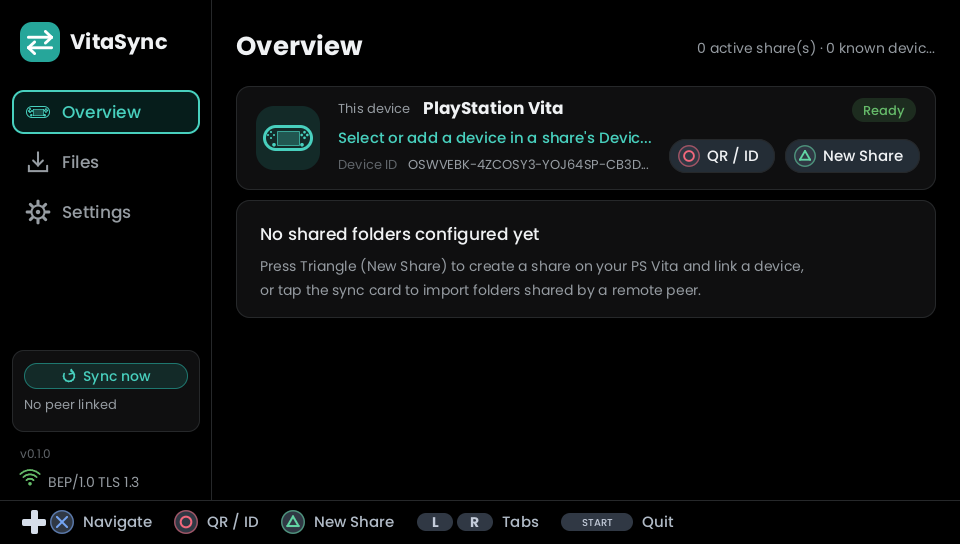
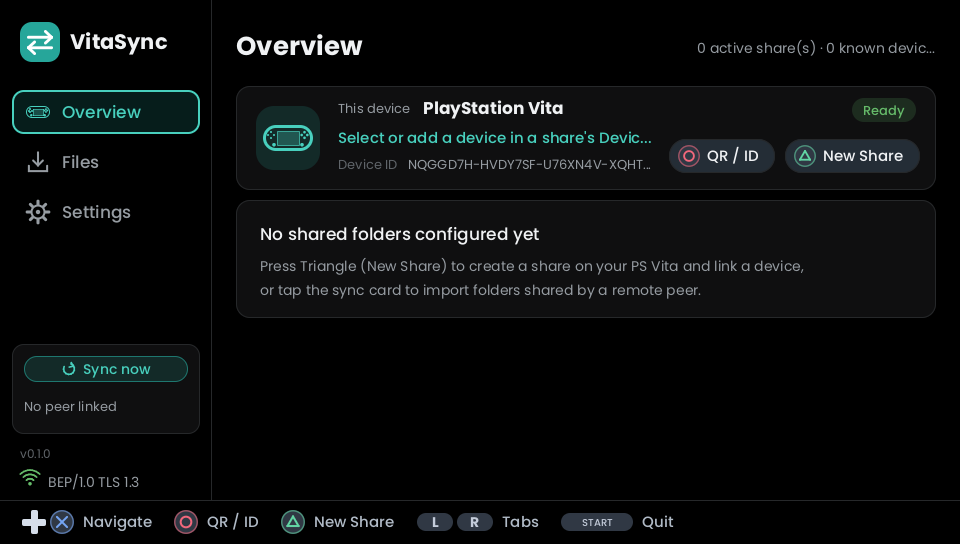
Keep Sync now button visible in Ready state and greyed out during sync

Changed region(s): [[0.0, 0.625, 0.2188, 0.8125], [0.4062, 0.2812, 0.6875, 0.3125]]

diff --git a/crates/vita-syncthing-app/src/ui/transfer_card.rs b/crates/vita-syncthing-app/src/ui/transfer_card.rs
@@ -1,6 +1,6 @@
-//! Sidebar transfer card: the sync state (`AppState::sync_activity`) and the touch target that
-//! starts a sync. While idle it shows a `Sync now` button, so that touching the card is visibly
-//! the way to connect to every paired device.
+//! Sidebar transfer card: the sync state (`AppState::sync_activity`) and the `Sync now` button.
+//! The button stays visible in every state: active and clickable when `Idle` or `Ready`, greyed
+//! out and non-clickable while `Downloading` or `Uploading`.
 
 use crate::domain::{AppState, HitMap, Hotspot, Rect, SyncActivity, UiAction};
 use crate::ui::gfx::{with_alpha, Align, FontWeight, Gfx, Icon};
@@ -11,15 +11,16 @@ use crate::ui::widgets::{draw_indeterminate_progress, draw_progress};
 /// Left edge, width and height of the card.
 const CARD_X: i32 = 12;
 const CARD_W: i32 = SIDEBAR_W - 2 * CARD_X;
-const CARD_H: i32 = 82;
+const CARD_H: i32 = 90;
 /// Left edge and width of the card's content.
 const INNER_X: i32 = 24;
 const INNER_W: i32 = SIDEBAR_W - 2 * INNER_X;
-/// Height of the idle `Sync now` button.
+/// Height of the `Sync now` button.
 const CTA_H: i32 = 26;
 
 /// Draws the transfer card above the sidebar's network status and declares it as a touch target
-/// (`UiAction::StartSync`) when `Idle` or `Ready` (non-clickable while `Downloading` or `Uploading`).
+/// (`UiAction::StartSync`) when `Idle` or `Ready` (greyed out and non-clickable while
+/// `Downloading` or `Uploading`).
 pub fn draw_transfer_card(
     gfx: &mut Gfx,
     th: &UiTheme,
@@ -27,10 +28,15 @@ pub fn draw_transfer_card(
     state: &AppState,
     hits: &mut HitMap,
 ) {
-    let card_y = HINT_Y - 150;
+    let card_y = HINT_Y - 156;
     let activity = state.sync_activity();
+    let syncing = matches!(
+        activity,
+        SyncActivity::Downloading | SyncActivity::Uploading
+    );
+
     gfx.rrect(CARD_X, card_y, CARD_W, CARD_H, 12, th.card);
-    if matches!(activity, SyncActivity::Idle | SyncActivity::Ready) {
+    if !syncing {
         hits.add(Hotspot {
             rect: Rect::new(CARD_X, card_y, CARD_W, CARD_H),
             action: UiAction::StartSync,
@@ -39,49 +45,41 @@ pub fn draw_transfer_card(
         });
     }
     gfx.rrect_outline(CARD_X, card_y, CARD_W, CARD_H, 12, 1, th.border);
+
+    draw_sync_button(gfx, th, s, card_y, !syncing);
+
     match activity {
         SyncActivity::Ready => draw_ready(gfx, s, card_y),
         SyncActivity::Idle => draw_idle(gfx, th, s, state, card_y),
         SyncActivity::Downloading => {
-            draw_transfer(gfx, th, s.sidebar_syncing, s, state, card_y);
-            draw_bar(gfx, th, state, card_y, state.progress_pct);
+            draw_transfer(
+                gfx,
+                th,
+                s.sidebar_syncing,
+                state,
+                card_y,
+                state.progress_pct,
+            );
         }
         SyncActivity::Uploading => {
-            draw_transfer(gfx, th, s.sidebar_uploading, s, state, card_y);
             // Uploads have no known total: indeterminate bar.
-            draw_bar(gfx, th, state, card_y, None);
+            draw_transfer(gfx, th, s.sidebar_uploading, state, card_y, None);
         }
     }
 }
 
-/// Connected and up to date: just a green check and "Ready".
-fn draw_ready(gfx: &mut Gfx, s: &Strings, card_y: i32) {
-    gfx.icon(Icon::Check, 44.0, (card_y + 41) as f32, 26.0, C_GOOD);
-    gfx.text_fit(
-        66,
-        card_y + 41,
-        SIDEBAR_W - 90,
-        18,
-        FontWeight::Medium,
-        C_GOOD,
-        Align::Left,
-        s.status_ready,
-    );
-}
+/// Draws the `Sync now` pill button at the top of the card (accented when `enabled`, greyed out
+/// while a sync is running).
+fn draw_sync_button(gfx: &mut Gfx, th: &UiTheme, s: &Strings, card_y: i32, enabled: bool) {
+    let cta_y = card_y + 12;
+    let (bg, border, fg) = if enabled {
+        (th.accent_bg, with_alpha(th.accent, 160), th.accent_hi)
+    } else {
+        (with_alpha(th.border, 90), th.border, th.faint)
+    };
+    gfx.rrect(INNER_X, cta_y, INNER_W, CTA_H, CTA_H / 2, bg);
+    gfx.rrect_outline(INNER_X, cta_y, INNER_W, CTA_H, CTA_H / 2, 1, border);
 
-/// No session: a `Sync now` button (the whole card is the touch target), then the peer label.
-fn draw_idle(gfx: &mut Gfx, th: &UiTheme, s: &Strings, state: &AppState, card_y: i32) {
-    let cta_y = card_y + 13;
-    gfx.rrect(INNER_X, cta_y, INNER_W, CTA_H, CTA_H / 2, th.accent_bg);
-    gfx.rrect_outline(
-        INNER_X,
-        cta_y,
-        INNER_W,
-        CTA_H,
-        CTA_H / 2,
-        1,
-        with_alpha(th.accent, 160),
-    );
     // Refresh icon and label, centred together in the button.
     let icon_w = 16;
     let gap = 6;
@@ -96,7 +94,7 @@ fn draw_idle(gfx: &mut Gfx, th: &UiTheme, s: &Strings, state: &AppState, card_y:
         (left + icon_w / 2) as f32,
         cy as f32,
         icon_w as f32,
-        th.accent_hi,
+        fg,
     );
     gfx.text_fit(
         left + icon_w + gap,
@@ -104,13 +102,33 @@ fn draw_idle(gfx: &mut Gfx, th: &UiTheme, s: &Strings, state: &AppState, card_y:
         max_label_w,
         14,
         FontWeight::Medium,
-        th.accent_hi,
+        fg,
         Align::Left,
         s.sidebar_sync_cta,
     );
+}
+
+/// Connected and up to date: green check and "Ready" below the `Sync now` button.
+fn draw_ready(gfx: &mut Gfx, s: &Strings, card_y: i32) {
+    let cy = card_y + 62;
+    gfx.icon(Icon::Check, (INNER_X + 9) as f32, cy as f32, 18.0, C_GOOD);
+    gfx.text_fit(
+        INNER_X + 24,
+        cy,
+        INNER_W - 24,
+        15,
+        FontWeight::Medium,
+        C_GOOD,
+        Align::Left,
+        s.status_ready,
+    );
+}
+
+/// No session: peer label below the `Sync now` button.
+fn draw_idle(gfx: &mut Gfx, th: &UiTheme, s: &Strings, state: &AppState, card_y: i32) {
     gfx.text_fit(
         INNER_X,
-        card_y + 54,
+        card_y + 62,
         INNER_W,
         13,
         FontWeight::Regular,
@@ -120,50 +138,28 @@ fn draw_idle(gfx: &mut Gfx, th: &UiTheme, s: &Strings, state: &AppState, card_y:
     );
 }
 
-/// A transfer runs: its title, then the peer label.
+/// A transfer runs: status title + percentage, then the progress bar (`Some(pct)` determinate,
+/// `None` indeterminate).
 fn draw_transfer(
     gfx: &mut Gfx,
     th: &UiTheme,
     title: &str,
-    s: &Strings,
     state: &AppState,
     card_y: i32,
+    pct: Option<u32>,
 ) {
-    gfx.text(
-        INNER_X,
-        card_y + 20,
-        13,
-        FontWeight::Regular,
-        th.dim,
-        Align::Left,
-        title,
-    );
-    gfx.text_fit(
-        INNER_X,
-        card_y + 42,
-        INNER_W,
-        14,
-        FontWeight::Medium,
-        th.text,
-        Align::Left,
-        &s.text(&state.peer_label),
-    );
-}
-
-/// Progress bar and its percentage: `Some(pct)` determinate, `None` indeterminate.
-fn draw_bar(gfx: &mut Gfx, th: &UiTheme, state: &AppState, card_y: i32, pct: Option<u32>) {
     let pct_str = match pct {
         Some(p) => {
             let p = p.min(100);
-            draw_progress(gfx, INNER_X, card_y + 58, SIDEBAR_W - 88, 8, p, th.accent);
+            draw_progress(gfx, INNER_X, card_y + 70, INNER_W, 8, p, th.accent);
             format!("{}%", p)
         }
         None => {
             draw_indeterminate_progress(
                 gfx,
                 INNER_X,
-                card_y + 58,
-                SIDEBAR_W - 88,
+                card_y + 70,
+                INNER_W,
                 8,
                 state.progress_anim_tick,
                 th.accent,
@@ -171,9 +167,19 @@ fn draw_bar(gfx: &mut Gfx, th: &UiTheme, state: &AppState, card_y: i32, pct: Opt
             "...".to_owned()
         }
     };
+    gfx.text_fit(
+        INNER_X,
+        card_y + 53,
+        INNER_W - 36,
+        12,
+        FontWeight::Regular,
+        th.dim,
+        Align::Left,
+        title,
+    );
     gfx.text(
         SIDEBAR_W - INNER_X,
-        card_y + 62,
+        card_y + 53,
         12,
         FontWeight::Medium,
         th.dim,

diff --git a/crates/vita-syncthing-app/tests/main_screens.rs b/crates/vita-syncthing-app/tests/main_screens.rs
@@ -148,21 +148,30 @@ fn test_sidebar_tabs_and_transfer_card() {
 fn transfer_bar_drawn(state: &mut AppState, card: Rect) -> bool {
     let mut gfx = Gfx::new();
     draw_frame(&mut gfx, state);
-    (card.y + 60..card.y + 66).any(|y| {
-        (24..SIDEBAR_W - 64).any(|x| gfx.pixels[(y * GFX_W + x) as usize] == C_PROGRESS_TRACK)
+    (card.y + 70..card.y + 78).any(|y| {
+        (24..SIDEBAR_W - 24).any(|x| gfx.pixels[(y * GFX_W + x) as usize] == C_PROGRESS_TRACK)
     })
 }
 
-/// Draws the frame and tells whether the transfer card shows its `Sync now` button (the
-/// button's accent outline along the card's upper half).
-fn sync_button_drawn(state: &mut AppState, card: Rect) -> bool {
+/// Draws the frame and tells whether the transfer card's `Sync now` button uses its active
+/// accent colour (as opposed to its greyed-out disabled colour).
+fn sync_button_is_accented(state: &mut AppState, card: Rect) -> bool {
     let mut gfx = Gfx::new();
     draw_frame(&mut gfx, state);
-    let card_bg = UiTheme::for_mode(state.theme_mode).card;
-    // Right edge of the button, inside the card's own outline: no text reaches it.
-    let right = card.x + card.w;
-    (card.y + 18..card.y + 34)
-        .any(|y| (right - 15..right - 11).any(|x| gfx.pixels[(y * GFX_W + x) as usize] != card_bg))
+    let th = UiTheme::for_mode(state.theme_mode);
+    // Inside the button pill, checking for the bright accent text/icon pixels.
+    (card.y + 12..card.y + 38)
+        .any(|y| (28..SIDEBAR_W - 28).any(|x| gfx.pixels[(y * GFX_W + x) as usize] == th.accent_hi))
+}
+
+/// Draws the frame and tells whether the transfer card's `Sync now` button is drawn in its
+/// greyed-out (`th.faint`) state.
+fn sync_button_is_greyed_out(state: &mut AppState, card: Rect) -> bool {
+    let mut gfx = Gfx::new();
+    draw_frame(&mut gfx, state);
+    let th = UiTheme::for_mode(state.theme_mode);
+    (card.y + 12..card.y + 38)
+        .any(|y| (28..SIDEBAR_W - 28).any(|x| gfx.pixels[(y * GFX_W + x) as usize] == th.faint))
 }
 
 #[test]
@@ -185,24 +194,29 @@ fn test_transfer_card_progress_bar_only_while_transferring() {
 }
 
 #[test]
-fn test_transfer_card_sync_button_only_while_idle() {
+fn test_transfer_card_sync_button_states() {
     let (dir, repo, mut state) = setup("screens-sync-button");
     let card = rect_of(&mut state, UiAction::StartSync);
     for language in LANGUAGES {
         state.language = language;
-        // Idle (no session): the card shows the `Sync now` button and touching it syncs.
-        assert!(sync_button_drawn(&mut state, card), "{language:?}");
+        // Idle (no session): active `Sync now` button and touching it syncs.
+        assert!(sync_button_is_accented(&mut state, card), "{language:?}");
     }
     assert_eq!(tap_rect(&mut state, &repo, card), UserCommand::StartSync);
-    // Ready (connected, up to date): no button.
+    // Ready (connected, up to date): `Sync now` button stays visible and clickable.
     state.session_connected = true;
-    assert!(!sync_button_drawn(&mut state, card));
-    // Transfers: no button either, and card is not clickable.
+    assert!(sync_button_is_accented(&mut state, card));
+    assert_eq!(tap_rect(&mut state, &repo, card), UserCommand::StartSync);
+    // Transfers: `Sync now` button is greyed out and non-clickable.
     state.uploading = true;
-    assert!(!sync_button_drawn(&mut state, card));
+    assert!(!sync_button_is_accented(&mut state, card));
+    assert!(sync_button_is_greyed_out(&mut state, card));
+    assert_eq!(tap_rect(&mut state, &repo, card), UserCommand::None);
     state.uploading = false;
     state.sync_in_progress = true;
-    assert!(!sync_button_drawn(&mut state, card));
+    assert!(!sync_button_is_accented(&mut state, card));
+    assert!(sync_button_is_greyed_out(&mut state, card));
+    assert_eq!(tap_rect(&mut state, &repo, card), UserCommand::None);
     let _ = std::fs::remove_dir_all(&dir);
 }
 
